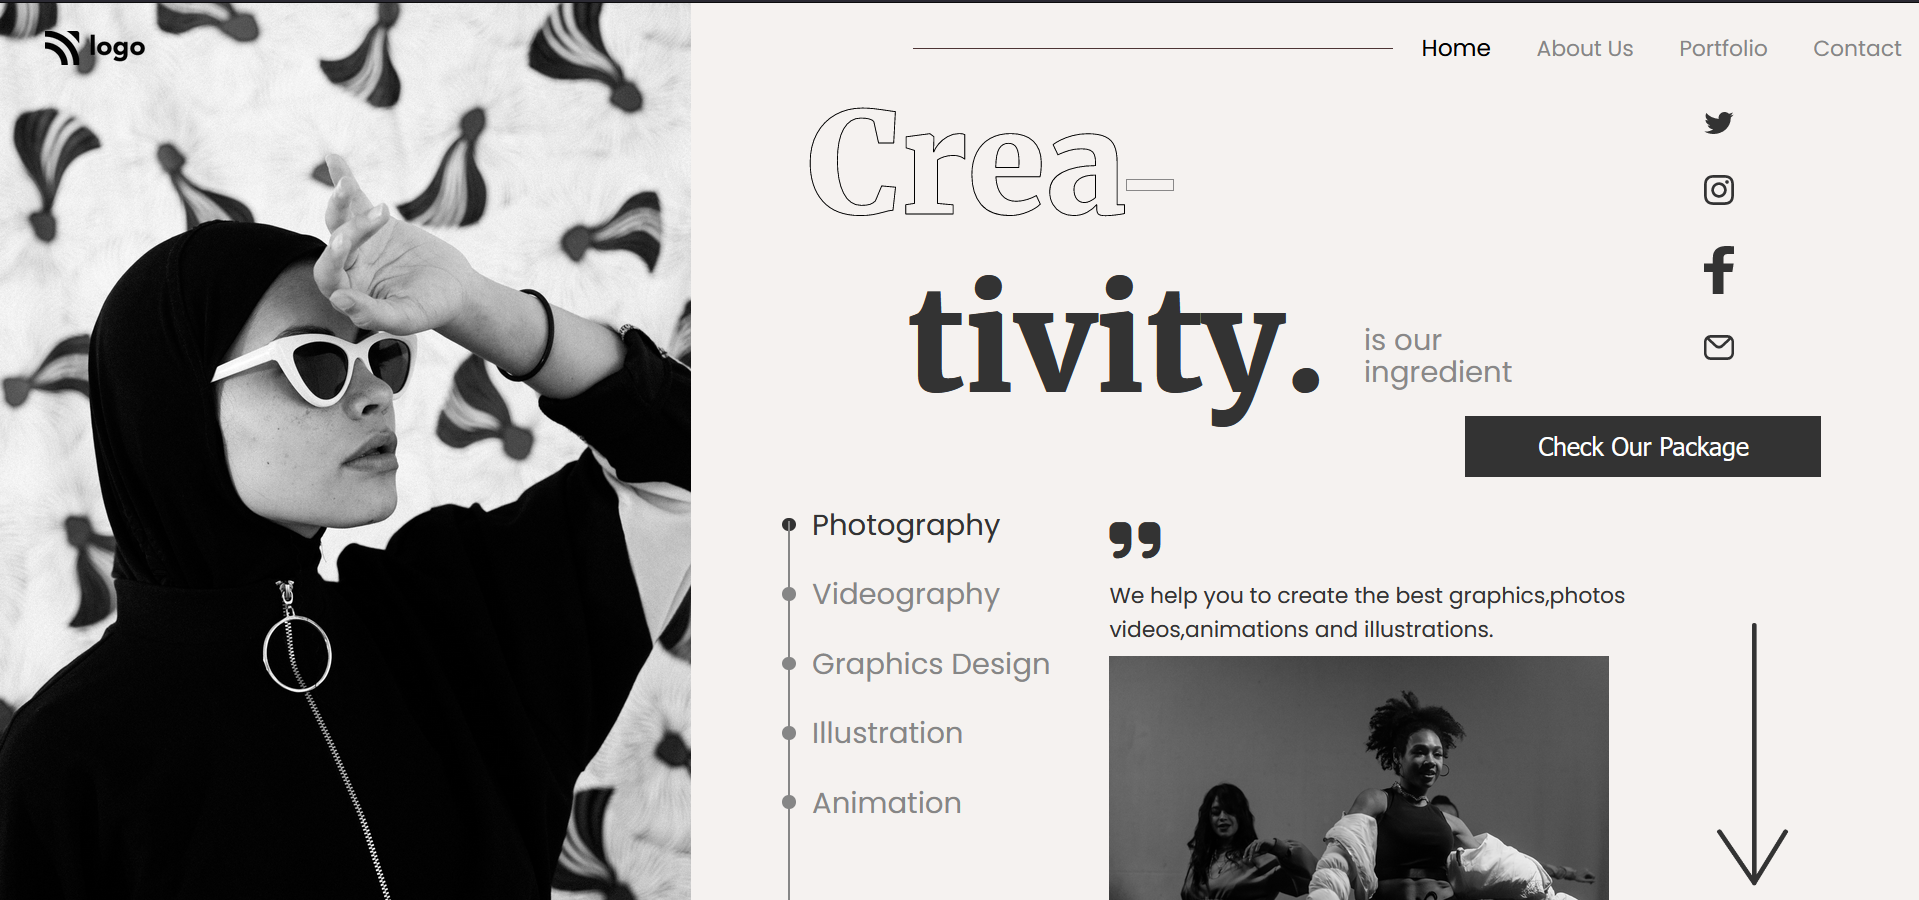
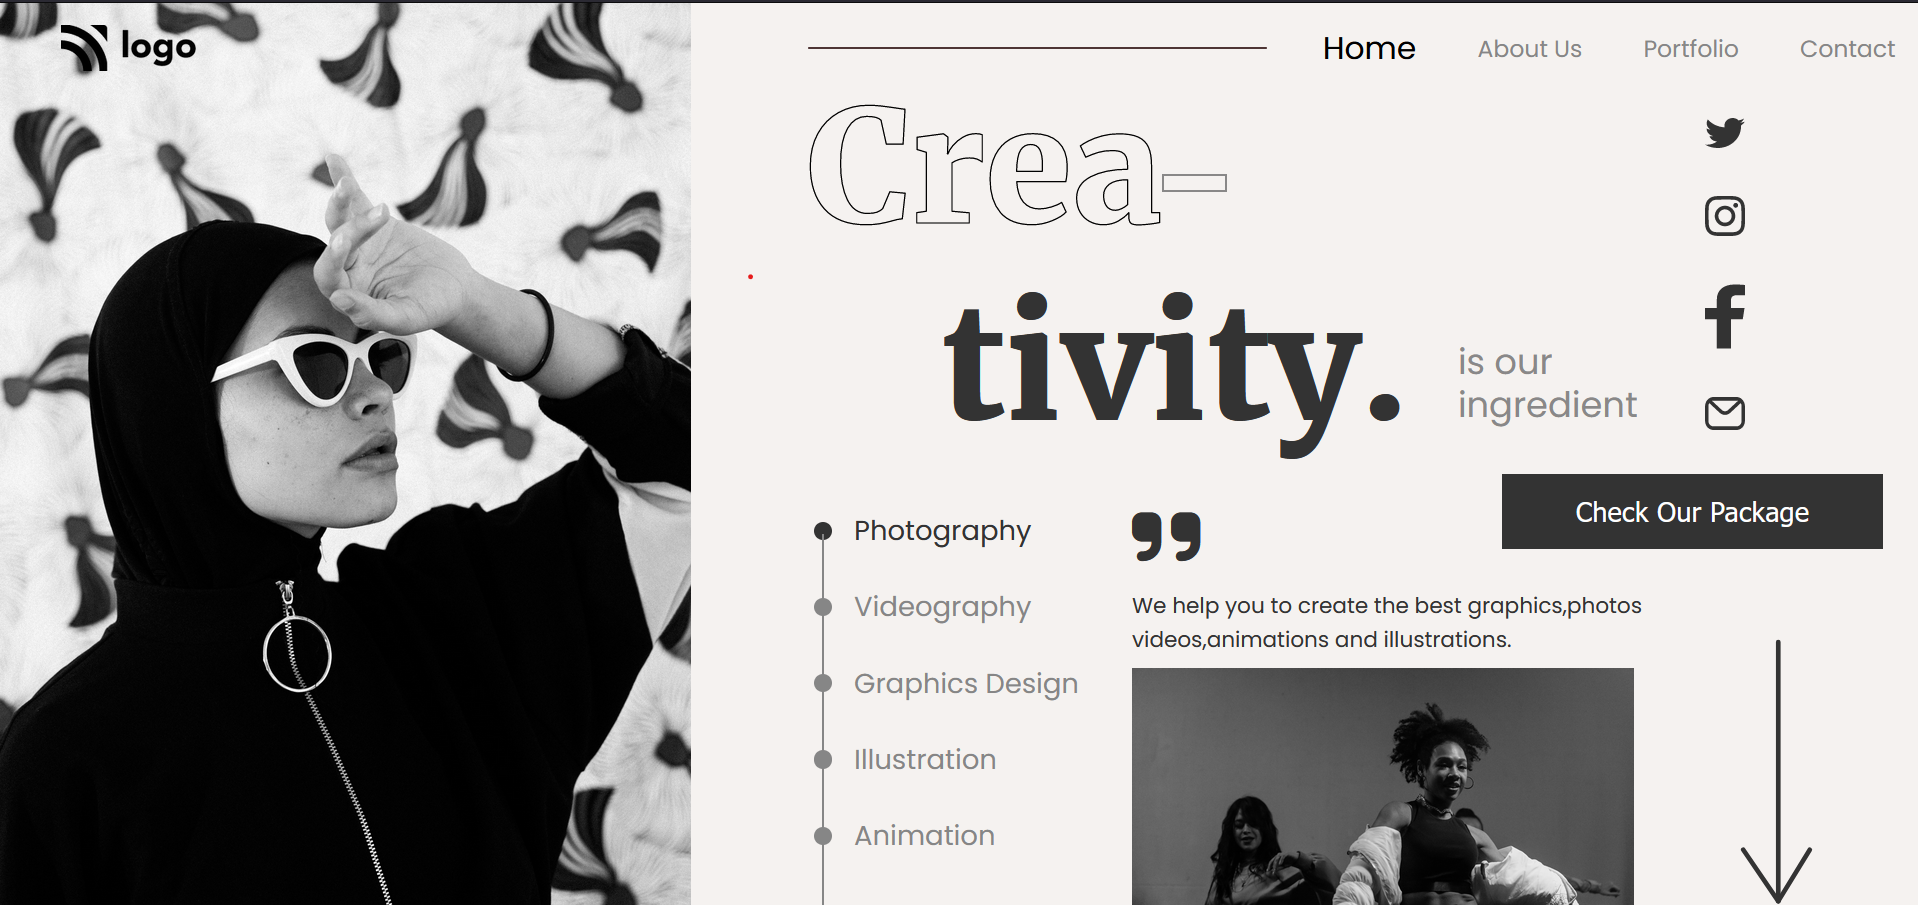
Corrected Positioning

diff --git a/css/style.css b/css/style.css
@@ -8,6 +8,7 @@
 body{
     font-family: "Poppins",sans-serif;
     background-color: #f5f2f0;
+
 }
 
 /*--------------- navbar --------------- */
@@ -29,7 +30,7 @@ body{
     justify-content: space-between;
     list-style-type: none;
     gap:50px;
-    font-size:1.5rem;
+    font-size:1.2rem;
     align-items: center;
     color:#868686;
     margin-right: 20px;
@@ -43,9 +44,9 @@ body{
 }
 .line{
     position: absolute;
-    left:-560px;
+    left:-420px;
     height: 1.52px;
-    width:100%;
+    width:80%;
     border-radius: 40px;
     background-color: #4e3535;
 }
@@ -86,7 +87,7 @@ body{
 }
 .heading h1{
     font-family: "Merriweather";
-    font-size: 9.7rem;
+    font-size: 8rem;
     color:#333;
     font-weight: 900;
 }
@@ -115,13 +116,13 @@ body{
     color:#898888;
     line-height: 35px;
     font-weight: normal;
-    font-size: 2rem;
+    font-size:1.8rem;
 }
 .btn{
     position:absolute;
     right:0;
-    bottom:-50px;
-    right:-100px;
+    bottom:-70px;
+    right:40px;
 }
 .right-container .btn{
     margin-right: -240px;
@@ -132,8 +133,8 @@ body{
     border: none;
     font-weight: normal;
     cursor: pointer;
-    font-size:1.7rem;
-    padding:17px 80px;
+    font-size:1.4rem;
+    padding:17px 60px;
 }
 .social-icons{
     position: absolute;
@@ -141,8 +142,8 @@ body{
     right:0px;
     top:0px;
     flex-direction: column;
-    gap:45px;
-    margin-right:120px;
+    gap:39px;
+    margin-right:80px;
     margin-top: 20px;
 }
 .social-icons img{
@@ -154,7 +155,7 @@ body{
 /*------------------- bottom-section --------------- */
 .bottom-container{
     position: absolute;
-    top:450px;
+    top:340px;
     left:100px;
 }
 .bottom-container ul
@@ -165,7 +166,7 @@ body{
     justify-content: center;
 }
 .bottom-container ul li{
-    font-size: 2rem;
+    font-size: 1.4rem;
     color:#868686;
     display:flex;
     align-items: center;
@@ -198,18 +199,18 @@ body{
 }
 .bottom-quote{
     position: absolute;
-    left:460px;
-    top:460px;
+    left:360px;
+    top:330px;
 }
 .bottom-quote p{
-    font-size:1.5rem;
+    font-size:1.1rem;
     margin-bottom: 10px;
     margin-top: 10px;
     color:#333;
 }
 .image{
-    width:550px;
-    height: 280px;
+    width:410px;
+    height: 270px;
 }
 .image img{
     object-position: top;
@@ -223,9 +224,9 @@ body{
 }
 .arrow{
     position: absolute;
-    right:-180px;
-    bottom:20px;
+    right:-140px;
+    bottom:70px;
 }
 .arrow img{
-    width:80px;
+    width:60px;
 }

diff --git a/README.md b/README.md
@@ -1,0 +1,24 @@
+# Dance Home Landing Page
+![html badge](https://img.shields.io/badge/Html-tomato) ![css badge](https://img.shields.io/badge/CSS-blue
+)  
+![learning process](https://img.shields.io/badge/Project%20Based%20Learning-darkviolet
+)  
+![ineuron-lco](https://img.shields.io/badge/iNeuron-lco-green
+)  
+![instructor](https://img.shields.io/badge/Hitesh_Choudary-Full%20Stack%20Javascript%20Course-orange
+)
+
+
+## Concepts learnt through this project
+- Selectors
+- Psuedo Selectors
+- Absolute Positioning
+- Relative Positioning
+- styling buttons
+- giving stroke to text
+- designing dots
+# Output:
+![output img](./screenshot/image.png)  
+
+### Time taken: 6 hours
+### Live Link - 
